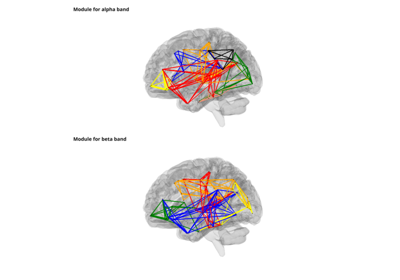
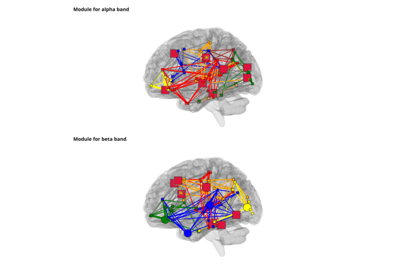
Make install

Changed region(s): [[0.36, 0.1429, 0.63, 0.3714], [0.36, 0.6, 0.63, 0.8571]]

diff --git a/searchindex.js b/searchindex.js
@@ -1,1 +1,1 @@
-Search.setIndex({docnames:["api","auto_examples/index","auto_examples/plot_conmat_to_graph","auto_examples/plot_inv_ts_to_graph","auto_examples/plot_nii_to_conmat","auto_examples/plot_nii_to_graph","index"],envversion:{"sphinx.domains.c":1,"sphinx.domains.changeset":1,"sphinx.domains.cpp":1,"sphinx.domains.javascript":1,"sphinx.domains.math":2,"sphinx.domains.python":1,"sphinx.domains.rst":1,"sphinx.domains.std":1,"sphinx.ext.intersphinx":1,"sphinx.ext.viewcode":1,sphinx:55},filenames:["api.rst","auto_examples/index.rst","auto_examples/plot_conmat_to_graph.rst","auto_examples/plot_inv_ts_to_graph.rst","auto_examples/plot_nii_to_conmat.rst","auto_examples/plot_nii_to_graph.rst","index.rst"],objects:{},objnames:{},objtypes:{},terms:{"01_meg_0_60_raw_filt_dsamp_ica_roi_t":3,"class":2,"export":6,"final":[2,3,4,5],"function":[2,3,6],"import":[2,3,4,5],"int":5,"true":[2,3,4,5],"try":[2,3,4,5],AND:3,For:[2,3],The:[2,3,4,5,6],Then:[2,3,4,5],__path__:[2,3,4,5],_blank:2,_freq_band_name_:[2,3,4,5],_session_rs_subject_id_test:5,_subject_id_sub:3,add:6,add_to_subplot:[2,3,4,5],admiss:[2,3],advanc:6,again:[2,3],algorithm:[2,3],all:[1,2,3,4,5,6],alon:6,alpha:[2,3],also:[2,3],analys:[2,3,4,5,6],analysi:[2,3,4,5,6],anatcsf:[4,5],anatwm:[4,5],anoth:6,api:6,assort:3,astyp:5,atla:[4,5],author:[2,3,4,5],auto_examples_jupyt:1,auto_examples_python:1,avail:[2,3,4,5],axi:[2,3,4,5],b_obj:[2,3,4,5],background:3,band:[2,3,4,5],base:[2,3,6],base_dir:[2,3,4,5],base_directori:[2,3,4,5],bashrc:6,best:[2,3],beta:[2,3],bgcolor:[2,3,4,5],bigger:6,black:3,both:3,brain:6,brainobj:[2,3,4,5],briefli:[2,3],bsd:[2,3,4,5],c_colval:5,c_obj:[2,3,4,5],can:[2,3,4,5,6],cartstd:5,cat:[2,3,6],chain:3,chanc:[2,3],check:[2,3,4,5],chosen:[2,3],classic:3,claus:[2,3,4,5],clean:5,click:[2,3,4,5],code:[1,2,3,4,5],coh:3,coher:[2,3],color:[2,3,4,5],com:6,common:6,commonli:6,commrada:3,commun:3,communities_detect:6,communities_tool:6,community_rada:[2,3,4,5],comput:[1,6],compute_conf_cor_mat:5,con_den:[2,3,4,5],con_method:3,conf_interval_prob:[4,5],config:[2,3,4,5],conmat:1,conmat_0_coh:[2,4,5],conmat_analysis_nam:[4,5],conmat_fil:[2,3,5],conmat_to_graph:[2,3,4,5,6],connec:[2,4,5],connect:[1,6],contain:[2,3],coord:5,coords_fil:[2,3,4,5],cor_wf:4,cor_workflow:5,corrdespond:[2,3,4,5],correct_channel_nam:[2,4,5],correl:[2,3,4,5],correspond:[2,3,4,5],cpu:[2,3,4,5],creat:[2,3,4,5],create_datagrabb:[2,4,5],create_iter:3,create_pipeline_conmat_to_graph_dens:[2,3,5],create_pipeline_nii_to_conmat_seg_templ:[4,5],create_pipeline_time_series_to_spectral_connect:3,csf_anat_fil:[4,5],data:[2,3,4,5,6],data_con:3,data_con_meg:2,data_graph:[2,3,4,5],data_inv_t:3,data_matrix:4,data_nii:[4,5],data_path:[2,3,4,5],datagrabb:[2,3,4,5],datasourc:[2,3,4,5],david:[2,3,4,5,6],david_meunier_79:[2,3,4,5],default_s:3,defin:6,deim:[2,3,6],densiti:[2,3,4,5],describ:3,detail:[2,3],detect:3,develop:6,dict:[2,3,4,5],dictionnari:3,differ:[2,3,6],directli:3,directori:[2,3,4,5,6],download:[1,2,3,4,5,6],each:6,easi:6,edg:[2,3,4,5],eeg:6,effici:3,electrophysiolog:6,engin:[2,3,4,5,6],enumer:[2,3,4,5],env:6,ephypyp:[2,3,6],epoch_window_length:3,etc:[2,3],exampl:[2,3,4,5],except:[2,3,4,5],execut:[2,3,4,5],exist:6,exit:[2,3,4,5],expect:[2,3],extract:[3,6],f99ua1:5,f_face:5,f_vert:5,face:5,facilit:6,fals:[2,3,4,5],fast:[2,3,6],field:[2,4,5,6],fif:[3,6],figsiz:[2,3,4,5],figur:[2,3,4,5],file:[1,3,6],filenam:[2,3,4,5],find_commun:6,first:[2,3,4,5],flat:5,fmri:6,focu:6,follow:6,format:[2,3,4,5,6],found:[2,3,4,5],framework:6,freq_band:3,freq_band_nam:[2,3,4,5],frequenc:[2,3],frequency_nod:3,from:[1,6],full:[2,3,4,5],fulli:[2,3,4,5],func:3,func_sess:[4,5],galleri:[2,3,4,5],gener:[1,2,3,4,5],genfromtxt:5,get_frequency_band:3,github:6,given:1,global:[2,3],gomez:[2,3,6],grab:[2,3,4,5],graph2us:[2,3,4,5],graph:[1,4,5,6],graph_analysi:2,graph_analysis_nam:[2,3,4,5],graph_den_pipe_den_0_1:5,graph_den_pipe_den_:[2,3,4,5],graph_workflow:[2,3,5],graphpyp:[0,2,3,4,5],green:5,have:[2,3],here:[2,3,4,5],higher:[2,3],highest:[2,3,4,5],home:[5,6],hotmail:[2,3,4,5],how:[2,3,4,5],href:2,html:2,http:[2,3,6],hub_to_non_hub:3,identityinterfac:[2,4,5],imag:6,img:[2,3,4,5],img_fil:[4,5],implement:[3,6],importerror:[2,3,4,5],imread:[2,3,4,5],imshow:[2,3,4,5],includ:6,indexed_mask:[4,5],infield:[2,3,4,5],info:3,infosourc:[2,3,4,5],input:[2,3,4,5,6],inputnod:[2,3,4,5],instal:[2,3,4,5],instanti:3,inter_modul:[2,3,4,5],interest:3,interfac:[2,3,4,5],inv_ts_to_graph:[3,6],inv_ts_to_graph_analysi:3,ipynb:[2,3,4,5],iter:[2,3,4,5],job:[2,3,4,5],join:[2,3,4,5],json:[2,3,4,5],jupyt:[1,2,3,4,5],kit:6,label:3,label_centroid:3,label_nam:3,labels_fil:[2,3,4,5],last:[2,3],least:[2,3],left:[2,3,4,5],lego:6,licens:[2,3,4,5],lightblu:5,line:6,linux32:6,linux64:6,list_sourc:3,load:[2,3,4,5],local:[2,3,4,5],lol:[2,3,4,5],lol_fil:[2,3,4,5],longer:[2,3],loop:2,macaqu:5,main:6,main_path:[4,5],main_workflow:[2,3,4,5],make:3,mani:6,martino:2,master:6,mat:6,matlab:6,matplotlib:[2,3,4,5],matric:6,matrix:1,maximum:[2,3],mayb:6,mean:[2,3,4,5],meg:[3,6],mesh:[3,5],metric:3,meunier:[2,3,4,5],miniconda3:5,minut:[2,3,4,5],misc:[2,3,4,5],mne:[2,6],mni_coord:[2,4,5],modal:6,modul:[2,3,4,5,6],moment:[2,3,4,5],monkei:5,more:[2,3],most:3,multi:6,multipl:3,multiproc:[2,3,4,5],n_proc:[2,3,4,5],name:[2,3,4,5],need:[2,3,4,5],net:[2,3,4,5],net_fil:[2,3,4,5],netproprada:3,network_properti:6,network_tool:6,neuro:6,neuroimag:6,neuropycon_data:[2,3,4,5],nii:1,nii_4d_fil:[4,5],nii_to_conmat:[4,5],nii_to_graph:5,nio:[2,3,4,5],nipyp:[2,3,4,5,6],node:[0,2,3,4,5,6],node_rol:[3,5],noqa:[2,3,4,5],notebook:[1,2,3,4,5],notic:[2,3,4,5],now:[2,3,4,5],npy:[2,3,4,5,6],number:[2,3],numpi:[5,6],object:[2,3,4,5],off:[2,3,4,5],one:[2,3],open:[2,3,4,5,6],optim_seq:[2,3,5],optimis:[2,3,4,5],option:[2,3,4,5],order:[2,3],org:2,other_tool:6,our:[2,3,4,5],out:[2,3,4,5],outfield:[2,3,4,5],output:[2,3,4,5,6],over:[3,6],packag:[5,6],paramet:[2,3,4,5],params_connect:3,params_graph:[2,3,4,5],parrallel:3,particular:[2,3,6],pass:[2,3,4,5],path:[2,3,4,5,6],paus:[2,3,4,5],pearson:[2,3],percentag:[2,3,4,5],perform:[2,3,4,5],php:[2,3,6],pip:[2,3,4,5,6],pipelin:[0,2,3,4,5,6],pli:[2,3],plot:[2,3,4,5],plot_conmat_to_graph:2,plot_connectivity_circl:2,plot_inv_ts_to_graph:3,plot_nii_to_conmat:4,plot_nii_to_graph:5,plotspectralconn:2,plt:[2,3,4,5],plugin:[2,3,4,5],plugin_arg:[2,3,4,5],png:[2,3,4,5],possibl:6,pprint:[2,3,4,5],prep_rada:[2,3,4,5],prepare_network:6,present:[2,3,4,5],preview:[2,3,4,5],previou:3,print:[2,3,4,5],process:6,project:6,properti:1,propos:[2,3],provid:6,purpl:5,pyplot:[2,3,4,5],python3:6,python:[1,2,3,4,5,6],rada:3,rada_path:6,radatool:[2,3],radatools_optim:[2,3,4,5],raw:[2,3,6],rcsf_mask_fil:[4,5],reach:[2,3],readi:[2,3,4,5],readm:[2,3],red:5,reformat_result:6,reliabl:[2,3],remove_unnecessary_output:[2,3,4,5],repetit:[2,3],replac:[2,3,4,5,6],repo:6,reposit:[2,3],requir:[2,3],res_path:[2,3,4,5],rest_run:3,result:[2,3],retain:[2,3,4,5],roi:4,roi_coord:[4,5],roi_coords_fil:[4,5],roi_label:[4,5],roi_labels_fil:[4,5],roi_mask_fil:[4,5],roi_mni_coord:[4,5],roi_mni_coords_fil:[4,5],role:3,roles_fil:[3,5],rotat:[2,3,4,5],row:[2,3,4,5],rp_file:[4,5],run:[2,3,4,5,6],rwm_mask_fil:[4,5],s_bold:[4,5],s_obj:[2,3,4,5],s_task:[3,4,5],sampl:3,sceneobj:[2,3,4,5],scipi:[2,3,4,5],script:[2,3,4,5],search:[2,3],second:[2,3,4,5],see:[2,3],select:4,sequenc:[2,3,4,5],sergio:[2,3,6],seri:[3,4,5,6],session:[4,5],set:6,sever:[2,3],sfreq:3,shape:4,should:[2,3,4,5,6],show:[2,3,4,5],sign:[2,3],size:[2,3,4,5],skip_head:5,small:3,softwar:6,some:[2,3],sort_filelist:[2,3,4,5],sotwar:6,sourc:[1,2,3,4,5,6],specifi:[2,3,4,5,6],spectral:[2,3,6],spectral_connect:2,spectral_connectivity_paramet:3,spectral_workflow:3,spectralconn:2,sphinx:[1,2,3,4,5],stabl:2,stand:6,start:3,std:5,step:6,store:[2,3,4,5],str:[2,3,4,5],sub:[3,4,5],subject_id:[3,4,5],subsequ:6,symetr:[2,4,5],tabu:[2,3],take:[2,3,4,5],taken:[2,3,4,5],target:2,tell:[2,3,4,5],templat:[2,3,4,5],template_arg:[2,3,4,5],template_path:[2,3,4,5],test:[2,3,4,5],test_mask:[4,5],tfrf:[2,3,5],theoret:6,thi:[2,3,4,5],thread:6,three:6,threshold:[2,3,4,5],thu:3,time:[2,3,4,5,6],titl:[2,3,4,5],title_bold:[2,3,4,5],title_color:[2,3,4,5],title_s:[2,3,4,5],togeth:[2,3,4,5,6],tool:6,topo:5,total:[2,3,4,5],transluc:[2,3,4,5],transpos:4,trial:3,ts_file:3,ts_to_conmat:3,two:[2,3,4,5,6],txt:[2,3,4,5],typic:[2,3],unsign:[2,3],upon:[2,3,4,5],urv:[2,3,6],use:3,use_this_cam:[2,3,4,5],usecol:5,used:[2,3,6],user:6,using:2,util:[0,2,4,5],utils_visbrain:[2,3,4,5],valu:[2,3,4,5],variabl:6,veri:[2,3,6],vert:5,vertic:5,visbrain:[2,3,4,5],visu_graph_modul:[2,3,4,5],visu_graph_modules_rol:[3,5],visual:[2,3,4,5],viz:2,wai:6,warn:[2,3,4,5],weight:[2,3],well:6,what:2,when:3,where:6,which:[2,3,4,5,6],white:[2,3,4,5],within:[2,3,4,5],wm_anat_fil:[4,5],work:6,workflow:[2,3,4,5,6],world:3,wrap:6,write:[2,3,4,5],write_graph:[2,3,4,5],yellow:5,you:6,your:6,z_conf_cor_mat_fil:5,z_list:[2,3,4,5],z_offset:[2,4,5],zip:[1,6],zipbal:6},titles:["API Documentation","Examples Gallery","Compute Graph properties from a given connectivity matrix","Compute Graph properties from a given connectivity matrix","Compute Conmat from nii files properties from a given connectivity matrix","Compute Conmat from nii files properties from a given connectivity matrix","Neuropycon"],titleterms:{For:6,api:0,comput:[2,3,4,5],conmat:[4,5],connect:[2,3,4,5],document:0,exampl:1,file:[4,5],from:[2,3,4,5],galleri:1,given:[2,3,4,5],graph:[2,3],graphpyp:6,instal:6,matrix:[2,3,4,5],neuropycon:6,nii:[4,5],properti:[2,3,4,5],radatool:6}})
+Search.setIndex({docnames:["api","auto_examples/index","auto_examples/plot_conmat_to_graph","auto_examples/plot_inv_ts_to_graph","auto_examples/plot_nii_to_conmat","auto_examples/plot_nii_to_graph","index"],envversion:{"sphinx.domains.c":1,"sphinx.domains.changeset":1,"sphinx.domains.cpp":1,"sphinx.domains.javascript":1,"sphinx.domains.math":2,"sphinx.domains.python":1,"sphinx.domains.rst":1,"sphinx.domains.std":1,"sphinx.ext.intersphinx":1,"sphinx.ext.viewcode":1,sphinx:55},filenames:["api.rst","auto_examples/index.rst","auto_examples/plot_conmat_to_graph.rst","auto_examples/plot_inv_ts_to_graph.rst","auto_examples/plot_nii_to_conmat.rst","auto_examples/plot_nii_to_graph.rst","index.rst"],objects:{},objnames:{},objtypes:{},terms:{"01_meg_0_60_raw_filt_dsamp_ica_roi_t":3,"class":2,"export":6,"final":[2,3,4,5],"function":[2,3,6],"import":[2,3,4,5],"int":5,"true":[2,3,4,5],"try":[2,3,4,5],AND:3,For:[2,3],The:[2,3,4,5,6],Then:[2,3,4,5],__path__:[2,3,4,5],_blank:2,_freq_band_name_:[2,3,4,5],_session_rs_subject_id_test:5,_subject_id_sub:3,add:6,add_to_subplot:[2,3,4,5],admiss:[2,3],advanc:6,again:[2,3],algorithm:[2,3],all:[1,2,3,4,5,6],alon:6,alpha:[2,3],also:[2,3],analys:[2,3,4,5,6],analysi:[2,3,4,5,6],anatcsf:[4,5],anatwm:[4,5],anoth:6,api:6,assort:3,astyp:5,atla:[4,5],author:[2,3,4,5],auto_examples_jupyt:1,auto_examples_python:1,avail:[2,3,4,5],axi:[2,3,4,5],b_obj:[2,3,4,5],background:[],band:[2,3,4,5],base:[2,3,6],base_dir:[2,3,4,5],base_directori:[2,3,4,5],bashrc:6,best:[2,3],beta:[2,3],bgcolor:[2,3,4,5],bigger:6,black:3,both:3,brain:6,brainobj:[2,3,4,5],briefli:[2,3],bsd:[2,3,4,5],c_colval:5,c_obj:[2,3,4,5],can:[2,3,4,5,6],cartstd:5,cat:[2,3,6],chain:3,chanc:[2,3],check:[2,3,4,5],chosen:[2,3],classic:3,claus:[2,3,4,5],clean:5,click:[2,3,4,5],code:[1,2,3,4,5],coh:3,coher:[2,3],color:[2,3,4,5],com:6,common:6,commonli:6,commrada:3,commun:3,communities_detect:6,communities_tool:6,community_rada:[2,3,4,5],comput:[1,6],compute_conf_cor_mat:5,con_den:[2,3,4,5],con_method:3,conf_interval_prob:[4,5],config:[2,3,4,5],conmat:1,conmat_0_coh:[2,4,5],conmat_analysis_nam:[4,5],conmat_fil:[2,3,5],conmat_to_graph:[2,3,4,5,6],connec:[2,4,5],connect:[1,6],contain:[2,3],coord:5,coords_fil:[2,3,4,5],cor_wf:4,cor_workflow:5,corrdespond:[2,3,4,5],correct_channel_nam:[2,4,5],correl:[2,3,4,5],correspond:[2,3,4,5],cpu:[2,3,4,5],creat:[2,3,4,5],create_datagrabb:[2,4,5],create_iter:3,create_pipeline_conmat_to_graph_dens:[2,3,5],create_pipeline_nii_to_conmat_seg_templ:[4,5],create_pipeline_time_series_to_spectral_connect:3,csf_anat_fil:[4,5],data:[2,3,4,5,6],data_con:3,data_con_meg:2,data_graph:[2,3,4,5],data_inv_t:3,data_matrix:4,data_nii:[4,5],data_path:[2,3,4,5],datagrabb:[2,3,4,5],datasourc:[2,3,4,5],david:[2,3,4,5,6],david_meunier_79:[2,3,4,5],default_s:3,defin:6,deim:[2,3,6],densiti:[2,3,4,5],describ:3,detail:[2,3],detect:3,develop:6,dict:[2,3,4,5],dictionnari:3,differ:[2,3,6],directli:3,directori:[2,3,4,5,6],download:[1,2,3,4,5,6],each:6,easi:6,edg:[2,3,4,5],eeg:6,effici:3,electrophysiolog:6,engin:[2,3,4,5,6],enumer:[2,3,4,5],env:6,ephypyp:[2,3,6],epoch_window_length:3,etc:[2,3],exampl:[2,3,4,5],except:[2,3,4,5],execut:[2,3,4,5],exist:6,exit:[2,3,4,5],expect:[2,3],extract:[3,6],f99ua1:5,f_face:5,f_vert:5,face:5,facilit:6,fals:[2,3,4,5],fast:[2,3,6],field:[2,4,5,6],fif:[3,6],figsiz:[2,3,4,5],figur:[2,3,4,5],file:[1,3,6],filenam:[2,3,4,5],find_commun:6,first:[2,3,4,5],flat:5,fmri:6,focu:6,follow:6,format:[2,3,4,5,6],found:[2,3,4,5],framework:6,freq_band:3,freq_band_nam:[2,3,4,5],frequenc:[2,3],frequency_nod:3,from:[1,6],full:[2,3,4,5],fulli:[2,3,4,5],func:3,func_sess:[4,5],galleri:[2,3,4,5],gener:[1,2,3,4,5],genfromtxt:5,get_frequency_band:3,github:6,given:1,global:[2,3],gomez:[2,3,6],grab:[2,3,4,5],graph2us:[2,3,4,5],graph:[1,4,5,6],graph_analysi:2,graph_analysis_nam:[2,3,4,5],graph_den_pipe_den_0_1:5,graph_den_pipe_den_:[2,3,4,5],graph_workflow:[2,3,5],graphpyp:[0,2,3,4,5],green:5,have:[2,3],here:[2,3,4,5],higher:[2,3],highest:[2,3,4,5],home:[5,6],hotmail:[2,3,4,5],how:[2,3,4,5],href:2,html:2,http:[2,3,6],hub_to_non_hub:3,identityinterfac:[2,4,5],imag:6,img:[2,3,4,5],img_fil:[4,5],implement:[3,6],importerror:[2,3,4,5],imread:[2,3,4,5],imshow:[2,3,4,5],includ:6,indexed_mask:[4,5],infield:[2,3,4,5],info:3,infosourc:[2,3,4,5],input:[2,3,4,5,6],inputnod:[2,3,4,5],instal:[2,3,4,5],instanti:3,inter_modul:[2,3,4,5],interest:3,interfac:[2,3,4,5],inv_ts_to_graph:[3,6],inv_ts_to_graph_analysi:3,ipynb:[2,3,4,5],iter:[2,3,4,5],job:[2,3,4,5],join:[2,3,4,5],json:[2,3,4,5],jupyt:[1,2,3,4,5],kit:6,label:[],label_centroid:3,label_nam:3,labels_fil:[2,3,4,5],last:[2,3],least:[2,3],left:[2,3,4,5],lego:6,licens:[2,3,4,5],lightblu:5,line:6,linux32:6,linux64:6,list_sourc:3,load:[2,3,4,5],local:[2,3,4,5],lol:[2,3,4,5],lol_fil:[2,3,4,5],longer:[2,3],loop:2,macaqu:5,main:6,main_path:[4,5],main_workflow:[2,3,4,5],make:3,mani:6,martino:2,master:6,mat:6,matlab:6,matplotlib:[2,3,4,5],matric:6,matrix:1,maximum:[2,3],mayb:6,mean:[2,3,4,5],meg:[3,6],mesh:5,metric:3,meunier:[2,3,4,5],miniconda3:5,minut:[2,3,4,5],misc:[2,3,4,5],mne:[2,6],mni_coord:[2,4,5],modal:6,modul:[2,3,4,5,6],moment:[2,3,4,5],monkei:5,more:[2,3],most:3,multi:6,multipl:3,multiproc:[2,3,4,5],n_proc:[2,3,4,5],name:[2,3,4,5],need:[2,3,4,5],net:[2,3,4,5],net_fil:[2,3,4,5],netproprada:3,network_properti:6,network_tool:6,neuro:6,neuroimag:6,neuropycon_data:[2,3,4,5],nii:1,nii_4d_fil:[4,5],nii_to_conmat:[4,5],nii_to_graph:5,nio:[2,3,4,5],nipyp:[2,3,4,5,6],node:[0,2,3,4,5,6],node_rol:[3,5],noqa:[2,3,4,5],notebook:[1,2,3,4,5],notic:[2,3,4,5],now:[2,3,4,5],npy:[2,3,4,5,6],number:[2,3],numpi:[5,6],object:[2,3,4,5],off:[2,3,4,5],one:[2,3],open:[2,3,4,5,6],optim_seq:[2,3,5],optimis:[2,3,4,5],option:[2,3,4,5],order:[2,3],org:2,other_tool:6,our:[2,3,4,5],out:[2,3,4,5],outfield:[2,3,4,5],output:[2,3,4,5,6],over:[3,6],packag:[5,6],paramet:[2,3,4,5],params_connect:3,params_graph:[2,3,4,5],parrallel:3,particular:[2,3,6],pass:[2,3,4,5],path:[2,3,4,5,6],paus:[2,3,4,5],pearson:[2,3],percentag:[2,3,4,5],perform:[2,3,4,5],php:[2,3,6],pip:[2,3,4,5,6],pipelin:[0,2,3,4,5,6],pli:[2,3],plot:[2,3,4,5],plot_conmat_to_graph:2,plot_connectivity_circl:2,plot_inv_ts_to_graph:3,plot_nii_to_conmat:4,plot_nii_to_graph:5,plotspectralconn:2,plt:[2,3,4,5],plugin:[2,3,4,5],plugin_arg:[2,3,4,5],png:[2,3,4,5],possibl:6,pprint:[2,3,4,5],prep_rada:[2,3,4,5],prepare_network:6,present:[2,3,4,5],preview:[2,3,4,5],previou:3,print:[2,3,4,5],process:6,project:6,properti:1,propos:[2,3],provid:6,purpl:5,pyplot:[2,3,4,5],python3:6,python:[1,2,3,4,5,6],rada:3,rada_path:6,radatool:[2,3],radatools_optim:[2,3,4,5],raw:[2,3,6],rcsf_mask_fil:[4,5],reach:[2,3],readi:[2,3,4,5],readm:[2,3],red:5,reformat_result:6,reliabl:[2,3],remove_unnecessary_output:[2,3,4,5],repetit:[2,3],replac:[2,3,4,5,6],repo:6,reposit:[2,3],requir:[2,3],res_path:[2,3,4,5],rest_run:3,result:[2,3],retain:[2,3,4,5],roi:4,roi_coord:[4,5],roi_coords_fil:[4,5],roi_label:[4,5],roi_labels_fil:[4,5],roi_mask_fil:[4,5],roi_mni_coord:[4,5],roi_mni_coords_fil:[4,5],role:3,roles_fil:[3,5],rotat:[2,3,4,5],row:[2,3,4,5],rp_file:[4,5],run:[2,3,4,5,6],rwm_mask_fil:[4,5],s_bold:[4,5],s_obj:[2,3,4,5],s_task:[3,4,5],sampl:3,sceneobj:[2,3,4,5],scipi:[2,3,4,5],script:[2,3,4,5],search:[2,3],second:[2,3,4,5],see:[2,3],select:4,sequenc:[2,3,4,5],sergio:[2,3,6],seri:[3,4,5,6],session:[4,5],set:6,sever:[2,3],sfreq:3,shape:4,should:[2,3,4,5,6],show:[2,3,4,5],sign:[2,3],size:[2,3,4,5],skip_head:5,small:3,softwar:6,some:[2,3],sort_filelist:[2,3,4,5],sotwar:6,sourc:[1,2,3,4,5,6],specifi:[2,3,4,5,6],spectral:[2,3,6],spectral_connect:2,spectral_connectivity_paramet:3,spectral_workflow:3,spectralconn:2,sphinx:[1,2,3,4,5],stabl:2,stand:6,start:3,std:5,step:6,store:[2,3,4,5],str:[2,3,4,5],sub:[3,4,5],subject_id:[3,4,5],subsequ:6,symetr:[2,4,5],tabu:[2,3],take:[2,3,4,5],taken:[2,3,4,5],target:2,tell:[2,3,4,5],templat:[2,3,4,5],template_arg:[2,3,4,5],template_path:[2,3,4,5],test:[2,3,4,5],test_mask:[4,5],tfrf:[2,3,5],theoret:6,thi:[2,3,4,5],thread:6,three:6,threshold:[2,3,4,5],thu:3,time:[2,3,4,5,6],titl:[2,3,4,5],title_bold:[2,3,4,5],title_color:[2,3,4,5],title_s:[2,3,4,5],togeth:[2,3,4,5,6],tool:6,topo:5,total:[2,3,4,5],transluc:[2,3,4,5],transpos:4,trial:3,ts_file:3,ts_to_conmat:3,two:[2,3,4,5,6],txt:[2,3,4,5],typic:[2,3],unsign:[2,3],upon:[2,3,4,5],urv:[2,3,6],use:3,use_this_cam:[2,3,4,5],usecol:5,used:[2,3,6],user:6,using:2,util:[0,2,4,5],utils_visbrain:[2,3,4,5],valu:[2,3,4,5],variabl:6,veri:[2,3,6],vert:5,vertic:5,visbrain:[2,3,4,5],visu_graph_modul:[2,3,4,5],visu_graph_modules_rol:[3,5],visual:[2,3,4,5],viz:2,wai:6,warn:[2,3,4,5],weight:[2,3],well:6,what:2,when:3,where:6,which:[2,3,4,5,6],white:[2,4,5],within:[2,3,4,5],wm_anat_fil:[4,5],work:6,workflow:[2,3,4,5,6],world:3,wrap:6,write:[2,3,4,5],write_graph:[2,3,4,5],yellow:5,you:6,your:6,z_conf_cor_mat_fil:5,z_list:[2,3,4,5],z_offset:[2,4,5],zip:[1,6],zipbal:6},titles:["API Documentation","Examples Gallery","Compute Graph properties from a given connectivity matrix","Compute Graph properties from a given connectivity matrix","Compute Conmat from nii files properties from a given connectivity matrix","Compute Conmat from nii files properties from a given connectivity matrix","Neuropycon"],titleterms:{For:6,api:0,comput:[2,3,4,5],conmat:[4,5],connect:[2,3,4,5],document:0,exampl:1,file:[4,5],from:[2,3,4,5],galleri:1,given:[2,3,4,5],graph:[2,3],graphpyp:6,instal:6,matrix:[2,3,4,5],neuropycon:6,nii:[4,5],properti:[2,3,4,5],radatool:6}})

diff --git a/auto_examples/plot_inv_ts_to_graph.html b/auto_examples/plot_inv_ts_to_graph.html
@@ -300,16 +300,15 @@ correspond to how we connected the nodes.</p>
 </div>
 <p>Run workflow locally on 2 CPUs in parrallel
 main_workflow.run(plugin=’MultiProc’, plugin_args={‘n_procs’: 2})</p>
-<p>plotting modules and labels</p>
-<div class="highlight-python notranslate"><div class="highlight"><pre><span></span><span class="kn">from</span> <span class="nn">graphpype.utils_visbrain</span> <span class="kn">import</span> <span class="n">visu_graph_modules</span> <span class="c1"># noqa</span>
+<p>plotting modules</p>
+<div class="highlight-python notranslate"><div class="highlight"><pre><span></span><span class="c1">#from graphpype.utils_visbrain import visu_graph_modules # noqa</span>
 
-<span class="n">labels_file</span> <span class="o">=</span> <span class="n">op</span><span class="o">.</span><span class="n">join</span><span class="p">(</span><span class="n">data_path</span><span class="p">,</span> <span class="s2">&quot;label_names.txt&quot;</span><span class="p">)</span>
-<span class="n">coords_file</span> <span class="o">=</span> <span class="n">op</span><span class="o">.</span><span class="n">join</span><span class="p">(</span><span class="n">data_path</span><span class="p">,</span> <span class="s2">&quot;label_centroid.txt&quot;</span><span class="p">)</span>
+<span class="c1">#labels_file = op.join(data_path, &quot;label_names.txt&quot;)</span>
+<span class="c1">#coords_file = op.join(data_path, &quot;label_centroid.txt&quot;)</span>
 
-<span class="kn">from</span> <span class="nn">visbrain.objects</span> <span class="kn">import</span> <span class="n">SceneObj</span><span class="p">,</span> <span class="n">BrainObj</span> <span class="c1"># noqa</span>
+<span class="c1">#from visbrain.objects import SceneObj, BrainObj # noqa</span>
 
-<span class="c1">### white background</span>
-<span class="c1">#sc = SceneObj(size=(1000, 1000), bgcolor=(.1, .1, .1))</span>
+<span class="c1">#sc = SceneObj(size=(1000, 1000), bgcolor=(1,1,1))</span>
 
 <span class="c1">#for nf, freq_band_name in enumerate(freq_band_names):</span>
     <span class="c1">#res_path = op.join(</span>
@@ -320,48 +319,21 @@ main_workflow.run(plugin=’MultiProc’, plugin_args={‘n_procs’: 2})</p>
     <span class="c1">#lol_file = op.join(res_path, &quot;community_rada&quot;, &quot;Z_List.lol&quot;)</span>
     <span class="c1">#net_file = op.join(res_path, &quot;prep_rada&quot;, &quot;Z_List.net&quot;)</span>
 
-    <span class="c1">#b_obj = BrainObj(&quot;white&quot;, translucent=True)</span>
+    <span class="c1">#b_obj = BrainObj(&quot;B1&quot;, translucent=True)</span>
     <span class="c1">#sc.add_to_subplot(b_obj, row=nf, use_this_cam=True, rotate=&#39;left&#39;,</span>
                       <span class="c1">#title=(&quot;Module for {} band&quot;.format(freq_band_name)),</span>
-                      <span class="c1">#title_size=14, title_bold=True, title_color=&#39;white&#39;)</span>
+                      <span class="c1">#title_size=14, title_bold=True, title_color=&#39;black&#39;)</span>
 
     <span class="c1">#c_obj,s_obj = visu_graph_modules(lol_file=lol_file, net_file=net_file,</span>
                                <span class="c1">#coords_file=coords_file,</span>
-                               <span class="c1">#labels_file=labels_file, inter_modules=False)</span>
+                               <span class="c1">#inter_modules=False)</span>
 
     <span class="c1">#sc.add_to_subplot(c_obj, row=nf)</span>
     <span class="c1">#sc.add_to_subplot(s_obj, row=nf)</span>
 
 <span class="c1">#sc.preview()</span>
-
-
-<span class="n">sc</span> <span class="o">=</span> <span class="n">SceneObj</span><span class="p">(</span><span class="n">size</span><span class="o">=</span><span class="p">(</span><span class="mi">1000</span><span class="p">,</span> <span class="mi">1000</span><span class="p">),</span> <span class="n">bgcolor</span><span class="o">=</span><span class="p">(</span><span class="mi">1</span><span class="p">,</span><span class="mi">1</span><span class="p">,</span><span class="mi">1</span><span class="p">))</span>
-
-<span class="k">for</span> <span class="n">nf</span><span class="p">,</span> <span class="n">freq_band_name</span> <span class="ow">in</span> <span class="nb">enumerate</span><span class="p">(</span><span class="n">freq_band_names</span><span class="p">):</span>
-    <span class="n">res_path</span> <span class="o">=</span> <span class="n">op</span><span class="o">.</span><span class="n">join</span><span class="p">(</span>
-        <span class="n">data_path</span><span class="p">,</span> <span class="n">graph_analysis_name</span><span class="p">,</span>
-        <span class="s2">&quot;graph_den_pipe_den_&quot;</span><span class="o">+</span><span class="nb">str</span><span class="p">(</span><span class="n">con_den</span><span class="p">)</span><span class="o">.</span><span class="n">replace</span><span class="p">(</span><span class="s2">&quot;.&quot;</span><span class="p">,</span> <span class="s2">&quot;_&quot;</span><span class="p">),</span>
-        <span class="s2">&quot;_freq_band_name_&quot;</span><span class="o">+</span><span class="n">freq_band_name</span><span class="o">+</span><span class="s2">&quot;_subject_id_sub-0003&quot;</span><span class="p">)</span>
-
-    <span class="n">lol_file</span> <span class="o">=</span> <span class="n">op</span><span class="o">.</span><span class="n">join</span><span class="p">(</span><span class="n">res_path</span><span class="p">,</span> <span class="s2">&quot;community_rada&quot;</span><span class="p">,</span> <span class="s2">&quot;Z_List.lol&quot;</span><span class="p">)</span>
-    <span class="n">net_file</span> <span class="o">=</span> <span class="n">op</span><span class="o">.</span><span class="n">join</span><span class="p">(</span><span class="n">res_path</span><span class="p">,</span> <span class="s2">&quot;prep_rada&quot;</span><span class="p">,</span> <span class="s2">&quot;Z_List.net&quot;</span><span class="p">)</span>
-
-    <span class="n">b_obj</span> <span class="o">=</span> <span class="n">BrainObj</span><span class="p">(</span><span class="s2">&quot;B1&quot;</span><span class="p">,</span> <span class="n">translucent</span><span class="o">=</span><span class="bp">True</span><span class="p">)</span>
-    <span class="n">sc</span><span class="o">.</span><span class="n">add_to_subplot</span><span class="p">(</span><span class="n">b_obj</span><span class="p">,</span> <span class="n">row</span><span class="o">=</span><span class="n">nf</span><span class="p">,</span> <span class="n">use_this_cam</span><span class="o">=</span><span class="bp">True</span><span class="p">,</span> <span class="n">rotate</span><span class="o">=</span><span class="s1">&#39;left&#39;</span><span class="p">,</span>
-                      <span class="n">title</span><span class="o">=</span><span class="p">(</span><span class="s2">&quot;Module for {} band&quot;</span><span class="o">.</span><span class="n">format</span><span class="p">(</span><span class="n">freq_band_name</span><span class="p">)),</span>
-                      <span class="n">title_size</span><span class="o">=</span><span class="mi">14</span><span class="p">,</span> <span class="n">title_bold</span><span class="o">=</span><span class="bp">True</span><span class="p">,</span> <span class="n">title_color</span><span class="o">=</span><span class="s1">&#39;black&#39;</span><span class="p">)</span>
-
-    <span class="n">c_obj</span><span class="p">,</span><span class="n">s_obj</span> <span class="o">=</span> <span class="n">visu_graph_modules</span><span class="p">(</span><span class="n">lol_file</span><span class="o">=</span><span class="n">lol_file</span><span class="p">,</span> <span class="n">net_file</span><span class="o">=</span><span class="n">net_file</span><span class="p">,</span>
-                               <span class="n">coords_file</span><span class="o">=</span><span class="n">coords_file</span><span class="p">,</span>
-                               <span class="n">inter_modules</span><span class="o">=</span><span class="bp">False</span><span class="p">)</span>
-
-    <span class="n">sc</span><span class="o">.</span><span class="n">add_to_subplot</span><span class="p">(</span><span class="n">c_obj</span><span class="p">,</span> <span class="n">row</span><span class="o">=</span><span class="n">nf</span><span class="p">)</span>
-    <span class="n">sc</span><span class="o">.</span><span class="n">add_to_subplot</span><span class="p">(</span><span class="n">s_obj</span><span class="p">,</span> <span class="n">row</span><span class="o">=</span><span class="n">nf</span><span class="p">)</span>
-
-<span class="n">sc</span><span class="o">.</span><span class="n">preview</span><span class="p">()</span>
 </pre></div>
 </div>
-<img alt="../_images/sphx_glr_plot_inv_ts_to_graph_001.png" class="sphx-glr-single-img" src="../_images/sphx_glr_plot_inv_ts_to_graph_001.png" />
 <p>plotting modules and roles</p>
 <div class="highlight-python notranslate"><div class="highlight"><pre><span></span><span class="kn">from</span> <span class="nn">graphpype.utils_visbrain</span> <span class="kn">import</span> <span class="n">visu_graph_modules_roles</span> <span class="c1"># noqa</span>
 
@@ -369,37 +341,6 @@ main_workflow.run(plugin=’MultiProc’, plugin_args={‘n_procs’: 2})</p>
 <span class="n">coords_file</span> <span class="o">=</span> <span class="n">op</span><span class="o">.</span><span class="n">join</span><span class="p">(</span><span class="n">data_path</span><span class="p">,</span> <span class="s2">&quot;label_centroid.txt&quot;</span><span class="p">)</span>
 
 <span class="kn">from</span> <span class="nn">visbrain.objects</span> <span class="kn">import</span> <span class="n">SceneObj</span><span class="p">,</span> <span class="n">BrainObj</span> <span class="c1"># noqa</span>
-
-<span class="c1">### figure white mesh and black background</span>
-
-<span class="c1">#sc = SceneObj(size=(1000, 1000), bgcolor=(.1, .1, .1))</span>
-
-<span class="c1">#for nf, freq_band_name in enumerate(freq_band_names):</span>
-    <span class="c1">#res_path = op.join(</span>
-        <span class="c1">#data_path, graph_analysis_name,</span>
-        <span class="c1">#&quot;graph_den_pipe_den_&quot;+str(con_den).replace(&quot;.&quot;, &quot;_&quot;),</span>
-        <span class="c1">#&quot;_freq_band_name_&quot;+freq_band_name+&quot;_subject_id_sub-0003&quot;)</span>
-
-    <span class="c1">#lol_file = op.join(res_path, &quot;community_rada&quot;, &quot;Z_List.lol&quot;)</span>
-    <span class="c1">#net_file = op.join(res_path, &quot;prep_rada&quot;, &quot;Z_List.net&quot;)</span>
-    <span class="c1">#roles_file = op.join(res_path, &quot;node_roles&quot;, &quot;node_roles.txt&quot;)</span>
-
-    <span class="c1">#b_obj = BrainObj(&quot;white&quot;, translucent=True)</span>
-    <span class="c1">#sc.add_to_subplot(b_obj, row=nf, use_this_cam=True, rotate=&#39;left&#39;,</span>
-                      <span class="c1">#title=(&quot;Module for {} band&quot;.format(freq_band_name)),</span>
-                      <span class="c1">#title_size=14, title_bold=True, title_color=&#39;white&#39;)</span>
-
-    <span class="c1">#c_obj,list_sources = visu_graph_modules_roles(</span>
-        <span class="c1">#lol_file=lol_file, net_file=net_file, roles_file=roles_file,</span>
-        <span class="c1">#coords_file=coords_file, inter_modules=True, default_size=10,</span>
-        <span class="c1">#hub_to_non_hub=3)</span>
-
-    <span class="c1">#sc.add_to_subplot(c_obj, row=nf)</span>
-
-    <span class="c1">#for source in list_sources:</span>
-        <span class="c1">#sc.add_to_subplot(source, row=nf)</span>
-
-<span class="c1">#sc.preview()</span>
 
 <span class="n">sc</span> <span class="o">=</span> <span class="n">SceneObj</span><span class="p">(</span><span class="n">size</span><span class="o">=</span><span class="p">(</span><span class="mi">1000</span><span class="p">,</span> <span class="mi">1000</span><span class="p">),</span> <span class="n">bgcolor</span><span class="o">=</span><span class="p">(</span><span class="mi">1</span><span class="p">,</span><span class="mi">1</span><span class="p">,</span><span class="mi">1</span><span class="p">))</span>
 
@@ -431,8 +372,8 @@ main_workflow.run(plugin=’MultiProc’, plugin_args={‘n_procs’: 2})</p>
 <span class="n">sc</span><span class="o">.</span><span class="n">preview</span><span class="p">()</span>
 </pre></div>
 </div>
-<img alt="../_images/sphx_glr_plot_inv_ts_to_graph_002.png" class="sphx-glr-single-img" src="../_images/sphx_glr_plot_inv_ts_to_graph_002.png" />
-<p><strong>Total running time of the script:</strong> ( 0 minutes  4.428 seconds)</p>
+<img alt="../_images/sphx_glr_plot_inv_ts_to_graph_001.png" class="sphx-glr-single-img" src="../_images/sphx_glr_plot_inv_ts_to_graph_001.png" />
+<p><strong>Total running time of the script:</strong> ( 0 minutes  3.258 seconds)</p>
 <div class="sphx-glr-footer class sphx-glr-footer-example docutils container" id="sphx-glr-download-auto-examples-plot-inv-ts-to-graph-py">
 <div class="sphx-glr-download docutils container">
 <a class="reference download internal" download="" href="../_downloads/c408898dc7b654b78c9005349545b8bd/plot_inv_ts_to_graph.py"><code class="xref download docutils literal notranslate"><span class="pre">Download</span> <span class="pre">Python</span> <span class="pre">source</span> <span class="pre">code:</span> <span class="pre">plot_inv_ts_to_graph.py</span></code></a></div>

diff --git a/_downloads/c408898dc7b654b78c9005349545b8bd/plot_inv_ts_to_graph.py b/_downloads/c408898dc7b654b78c9005349545b8bd/plot_inv_ts_to_graph.py
@@ -191,17 +191,16 @@ main_workflow.config['execution'] = {'remove_unnecessary_outputs': 'false'}
 #main_workflow.run(plugin='MultiProc', plugin_args={'n_procs': 2})
 
 ##############################################################################
-# plotting modules and labels
+# plotting modules
 
-from graphpype.utils_visbrain import visu_graph_modules # noqa
+#from graphpype.utils_visbrain import visu_graph_modules # noqa
 
-labels_file = op.join(data_path, "label_names.txt")
-coords_file = op.join(data_path, "label_centroid.txt")
+#labels_file = op.join(data_path, "label_names.txt")
+#coords_file = op.join(data_path, "label_centroid.txt")
 
-from visbrain.objects import SceneObj, BrainObj # noqa
+#from visbrain.objects import SceneObj, BrainObj # noqa
 
-### white background
-#sc = SceneObj(size=(1000, 1000), bgcolor=(.1, .1, .1))
+#sc = SceneObj(size=(1000, 1000), bgcolor=(1,1,1))
 
 #for nf, freq_band_name in enumerate(freq_band_names):
     #res_path = op.join(
@@ -212,45 +211,19 @@ from visbrain.objects import SceneObj, BrainObj # noqa
     #lol_file = op.join(res_path, "community_rada", "Z_List.lol")
     #net_file = op.join(res_path, "prep_rada", "Z_List.net")
 
-    #b_obj = BrainObj("white", translucent=True)
+    #b_obj = BrainObj("B1", translucent=True)
     #sc.add_to_subplot(b_obj, row=nf, use_this_cam=True, rotate='left',
                       #title=("Module for {} band".format(freq_band_name)),
-                      #title_size=14, title_bold=True, title_color='white')
+                      #title_size=14, title_bold=True, title_color='black')
 
     #c_obj,s_obj = visu_graph_modules(lol_file=lol_file, net_file=net_file,
                                #coords_file=coords_file,
-                               #labels_file=labels_file, inter_modules=False)
+                               #inter_modules=False)
 
     #sc.add_to_subplot(c_obj, row=nf)
     #sc.add_to_subplot(s_obj, row=nf)
 
 #sc.preview()
-
-
-sc = SceneObj(size=(1000, 1000), bgcolor=(1,1,1))
-
-for nf, freq_band_name in enumerate(freq_band_names):
-    res_path = op.join(
-        data_path, graph_analysis_name,
-        "graph_den_pipe_den_"+str(con_den).replace(".", "_"),
-        "_freq_band_name_"+freq_band_name+"_subject_id_sub-0003")
-
-    lol_file = op.join(res_path, "community_rada", "Z_List.lol")
-    net_file = op.join(res_path, "prep_rada", "Z_List.net")
-
-    b_obj = BrainObj("B1", translucent=True)
-    sc.add_to_subplot(b_obj, row=nf, use_this_cam=True, rotate='left',
-                      title=("Module for {} band".format(freq_band_name)),
-                      title_size=14, title_bold=True, title_color='black')
-
-    c_obj,s_obj = visu_graph_modules(lol_file=lol_file, net_file=net_file,
-                               coords_file=coords_file,
-                               inter_modules=False)
-
-    sc.add_to_subplot(c_obj, row=nf)
-    sc.add_to_subplot(s_obj, row=nf)
-
-sc.preview()
 
 ###############################################################################
 # plotting modules and roles
@@ -261,37 +234,6 @@ labels_file = op.join(data_path, "label_names.txt")
 coords_file = op.join(data_path, "label_centroid.txt")
 
 from visbrain.objects import SceneObj, BrainObj # noqa
-
-### figure white mesh and black background
-
-#sc = SceneObj(size=(1000, 1000), bgcolor=(.1, .1, .1))
-
-#for nf, freq_band_name in enumerate(freq_band_names):
-    #res_path = op.join(
-        #data_path, graph_analysis_name,
-        #"graph_den_pipe_den_"+str(con_den).replace(".", "_"),
-        #"_freq_band_name_"+freq_band_name+"_subject_id_sub-0003")
-
-    #lol_file = op.join(res_path, "community_rada", "Z_List.lol")
-    #net_file = op.join(res_path, "prep_rada", "Z_List.net")
-    #roles_file = op.join(res_path, "node_roles", "node_roles.txt")
-
-    #b_obj = BrainObj("white", translucent=True)
-    #sc.add_to_subplot(b_obj, row=nf, use_this_cam=True, rotate='left',
-                      #title=("Module for {} band".format(freq_band_name)),
-                      #title_size=14, title_bold=True, title_color='white')
-
-    #c_obj,list_sources = visu_graph_modules_roles(
-        #lol_file=lol_file, net_file=net_file, roles_file=roles_file,
-        #coords_file=coords_file, inter_modules=True, default_size=10,
-        #hub_to_non_hub=3)
-
-    #sc.add_to_subplot(c_obj, row=nf)
-
-    #for source in list_sources:
-        #sc.add_to_subplot(source, row=nf)
-
-#sc.preview()
 
 sc = SceneObj(size=(1000, 1000), bgcolor=(1,1,1))
 
